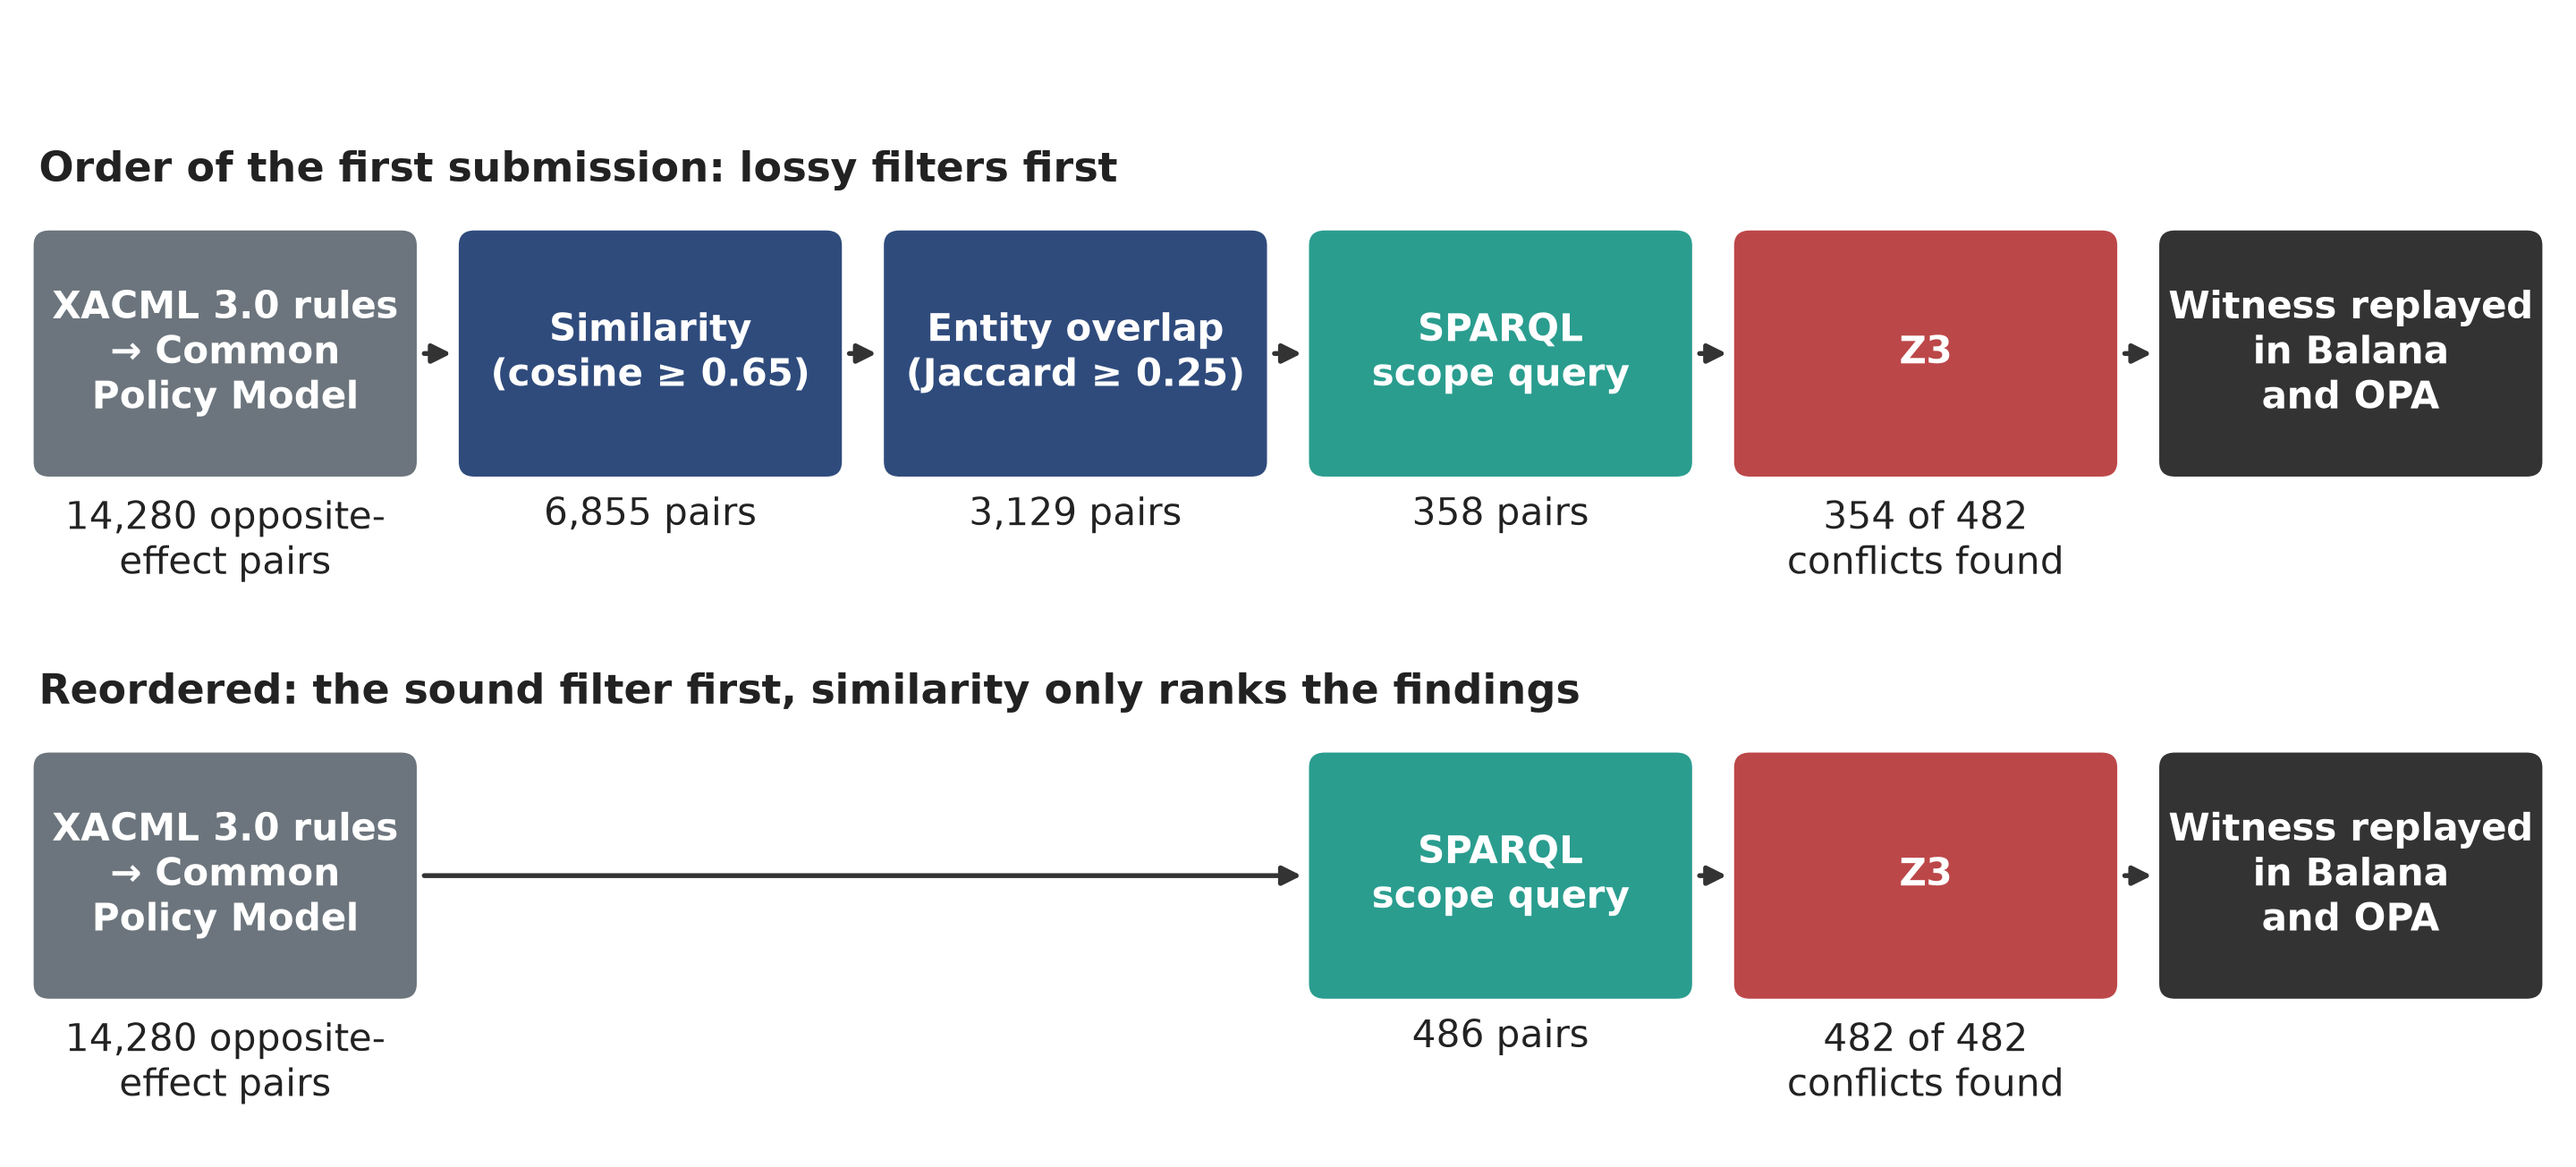
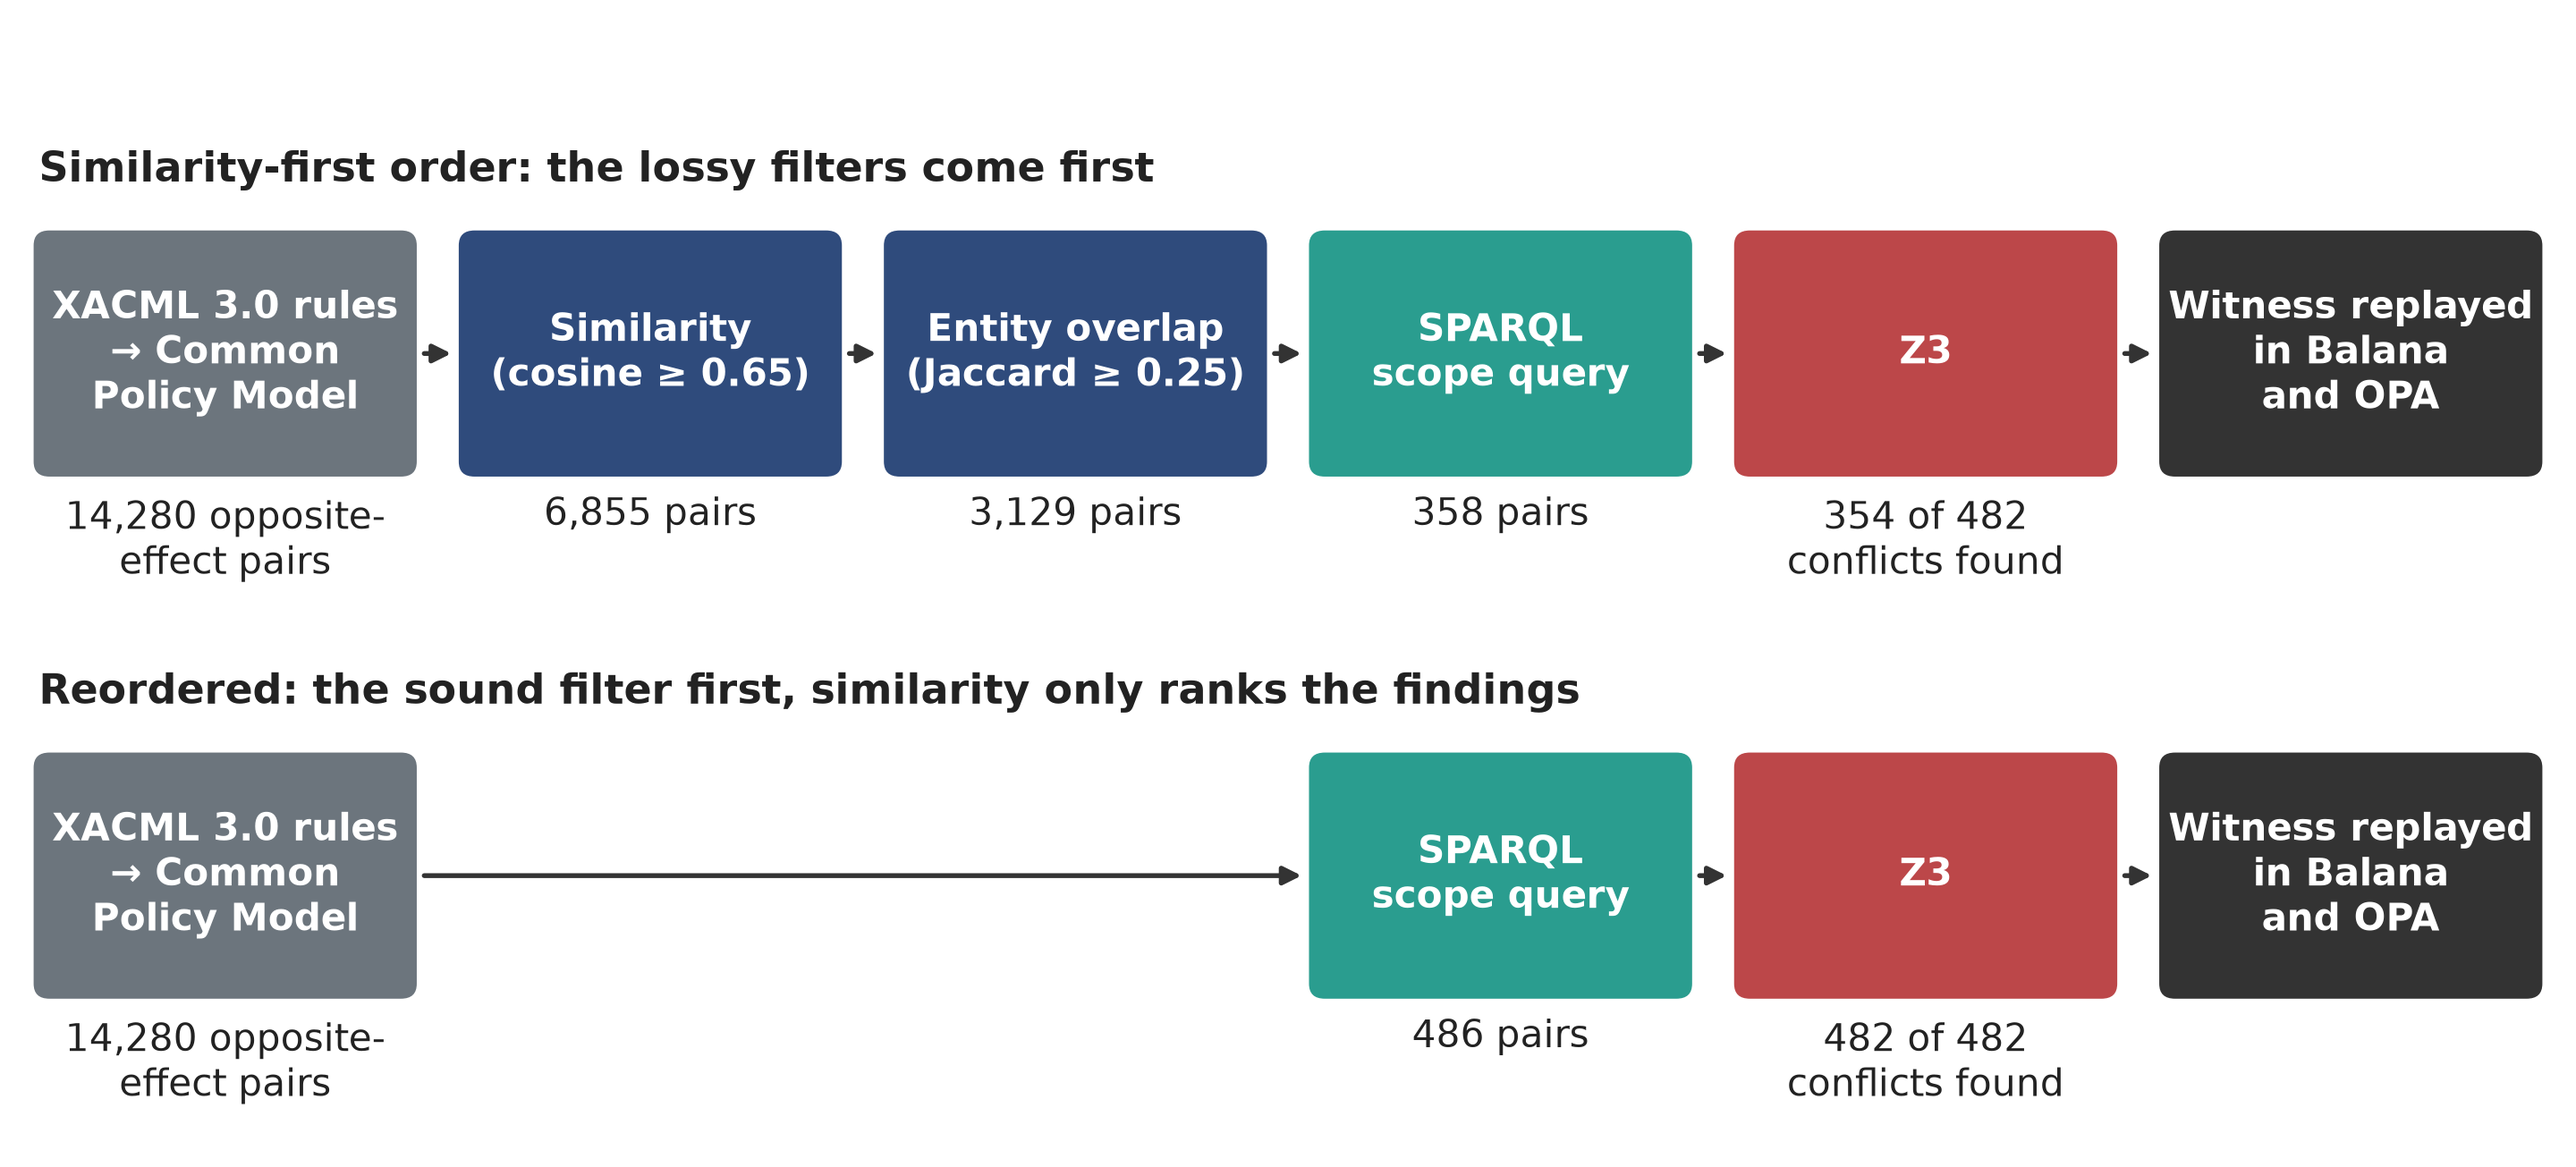
Add analysis of missed conflicts and rename the similarity-first order
- missed.py sorts every conflict by how its two rules relate (catch-all,
  broad and narrow, different attributes) and counts how many the
  resemblance filters lose in each shape; run_all.sh calls it and the
  result is in results/missed_conflicts.json
- Figure 1: the top row is now called the similarity-first order

Changed region(s): [[0.0, 0.1226, 0.4688, 0.1533]]

diff --git a/v3/missed.py b/v3/missed.py
@@ -1,0 +1,81 @@
+"""Why the resemblance filters miss conflicts: sort every opposite-effect pair by how its two rules relate.
+
+  python v3/missed.py            (after funnel.py; writes results/missed_conflicts.json)
+
+Shapes, tested in this order on the rules as the pipeline compares them (inherited Targets included):
+  catch-all          one rule has no condition at all, so it applies to every request
+  narrow vs broad    the terms of one rule are a subset of the other's: the narrow rule repeats
+                     the broad rule and adds conditions (an exception to it)
+  different attrs    each rule constrains an attribute the other leaves free
+  other              everything else
+A term is an attribute or an attribute-value literal, as in the entity-overlap stage.
+A conflict is lost when the similarity-first order drops it: cosine < 0.65 or entity overlap < 0.25.
+Uses only the stored pair tables and the intake; runs no solver and no model.
+"""
+import json
+import sys
+from collections import Counter, defaultdict
+from pathlib import Path
+
+HERE = Path(__file__).resolve().parent
+sys.path.insert(0, str(HERE))
+sys.path.insert(0, str(HERE.parent / 'src'))
+import funnel  # noqa: E402
+import intake  # noqa: E402
+from research import screening  # noqa: E402
+
+SETS = ['Continue-A', 'Pluto', 'Fedora', 'KMarket', 'CrossFramework']
+SHAPES = ['catch-all', 'narrow vs broad', 'different attributes', 'other']
+
+
+def shape(a, b, mapping):
+    if a['condition'] is True or b['condition'] is True:
+        return 'catch-all'
+    ea, eb = screening.entities(a['condition'], mapping), screening.entities(b['condition'], mapping)
+    if ea <= eb or eb <= ea:
+        return 'narrow vs broad'
+    aa = {e for e in ea if e.startswith('attribute:')}
+    ab = {e for e in eb if e.startswith('attribute:')}
+    if not (aa <= ab or ab <= aa):
+        return 'different attributes'
+    return 'other'
+
+
+def main():
+    out = {'thresholds': {'cosine': funnel.EMBED_THRESHOLD, 'entity_overlap': funnel.ENTITY_THRESHOLD}, 'datasets': {}}
+    for name in SETS:
+        path, sources = funnel.DATASETS[name]
+        m = intake.load(path, sources)
+        rules, mapping = {r['id']: r for r in m['display']['rules']}, m['mapping']
+        rows = json.loads((HERE / 'results' / f'pairs_{name}.json').read_text())['rows']
+        t = defaultdict(Counter)
+        cos = defaultdict(list)
+        for r in rows:
+            k = shape(rules[r['pair'][0]], rules[r['pair'][1]], mapping)
+            sat = r['status'] == 'SAT'
+            low_cos, low_ent = r['cosine'] < funnel.EMBED_THRESHOLD, r['jaccard'] < funnel.ENTITY_THRESHOLD
+            t[k]['pairs'] += 1
+            t[k]['conflicts'] += sat
+            t[k]['lost'] += sat and (low_cos or low_ent)
+            t[k]['lost_by_similarity'] += sat and low_cos
+            t[k]['lost_by_entity_overlap'] += sat and low_ent
+            t[k]['kept_by_scope_query'] += sat and r['scope']
+            if sat:
+                cos[k].append(r['cosine'])
+        out['datasets'][name] = {k: dict(t[k], max_cosine_of_conflicts=round(max(cos[k]), 3) if cos[k] else None)
+                                 for k in SHAPES if k in t}
+    tot = Counter()
+    for d in out['datasets'].values():
+        for k, v in d.items():
+            tot[k + ': conflicts'] += v['conflicts']
+            tot[k + ': lost'] += v['lost']
+    out['totals'] = dict(tot)
+    assert tot['other: conflicts'] == 0, 'a conflict outside the three shapes'
+    assert all(v['kept_by_scope_query'] == v['conflicts'] for d in out['datasets'].values() for v in d.values())
+    (HERE / 'results' / 'missed_conflicts.json').write_text(json.dumps(out, indent=1))
+    print(json.dumps(out['totals'], indent=1))
+    return out
+
+
+if __name__ == '__main__':
+    main()

diff --git a/v3/analyze.py b/v3/analyze.py
@@ -96,7 +96,7 @@ def main(elapsed_seconds=None):
              'variants': {k: metrics(rows, f) for k, f in variants(has_e).items()}}
         d['model_file'] = t.get('model_file')
         d['z3'] = t.get('z3')
-        if has_e:       # pairs reaching each stage, in the order of the first submission and reordered
+        if has_e:       # pairs reaching each stage, in the similarity-first order and reordered
             steps, kept = [], rows
             for label, f in (('similarity', lambda r: r['cosine'] >= E), ('entity overlap', lambda r: r['jaccard'] >= N),
                              ('scope query', lambda r: r['scope'])):
@@ -319,7 +319,7 @@ def funnel_figure(summary, name='Continue-A'):
                 ax.annotate('', xy=(xs[i + 1] - 0.02, y + h / 2), xytext=(x + w + 0.02, y + h / 2),
                             arrowprops=dict(arrowstyle='-|>', color='#333333', lw=1.3))
         return xs
-    xs = row(top, 2.75, 'Order of the first submission: lossy filters first')
+    xs = row(top, 2.75, 'Similarity-first order: the lossy filters come first')
     row(bottom, 0.65, 'Reordered: the sound filter first, similarity only ranks the findings', [xs[0], xs[3], xs[4], xs[5]])
     fig.subplots_adjust(left=0.01, right=0.99, top=0.99, bottom=0.01)
     fig.savefig(OUT / 'fig1_funnel.png', dpi=300)

diff --git a/v3/README.md b/v3/README.md
@@ -20,6 +20,7 @@ the Rego export (`src/research/rego.py`) as they are.
 | `timing.py` | Wall-clock time of every filter variant of the ablation, one fresh process per repetition. |
 | `ci_gate.py` | Pull-request gate: fails when a pair that was conflict-free in the base file is a conflict in the changed file. `examples/policy-gate.yml` is the GitHub Actions job. |
 | `model_check.py` | Checks the embedding model on disk against `models/all-MiniLM-L6-v2/manifest.json` and against the screening counts stored by the thesis runs. |
+| `missed.py` | Sorts every conflict by how its two rules relate (catch-all, broad and narrow, different attributes) and counts how many the resemblance filters lose in each shape; writes `results/missed_conflicts.json`. |
 | `analyze.py` | Builds `results/summary.json`, the ablation table, the threshold sweeps and the two figures. |
 | `fetch_xpa.sh` | Downloads the Pluto and Fedora policy files from the XPA repository at a fixed commit and checks their SHA-256. |
 | `run_all.sh` | Runs all of the above from an empty `results/` folder. |
